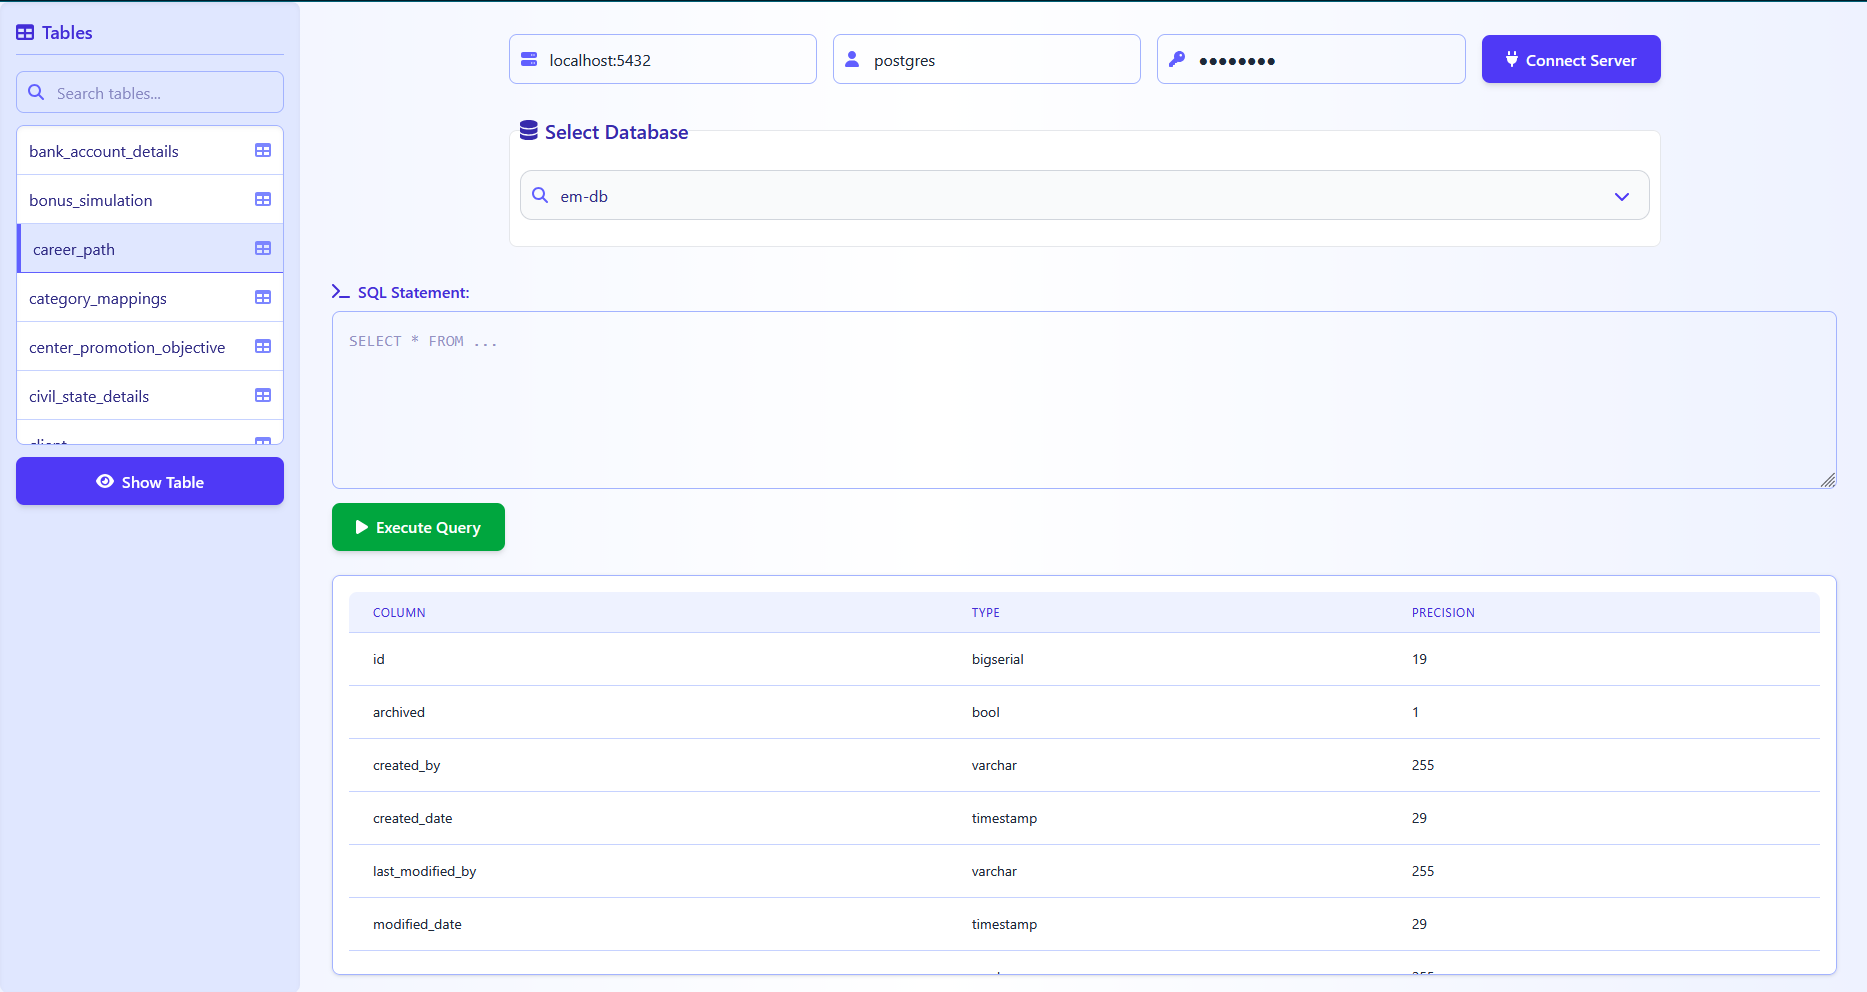
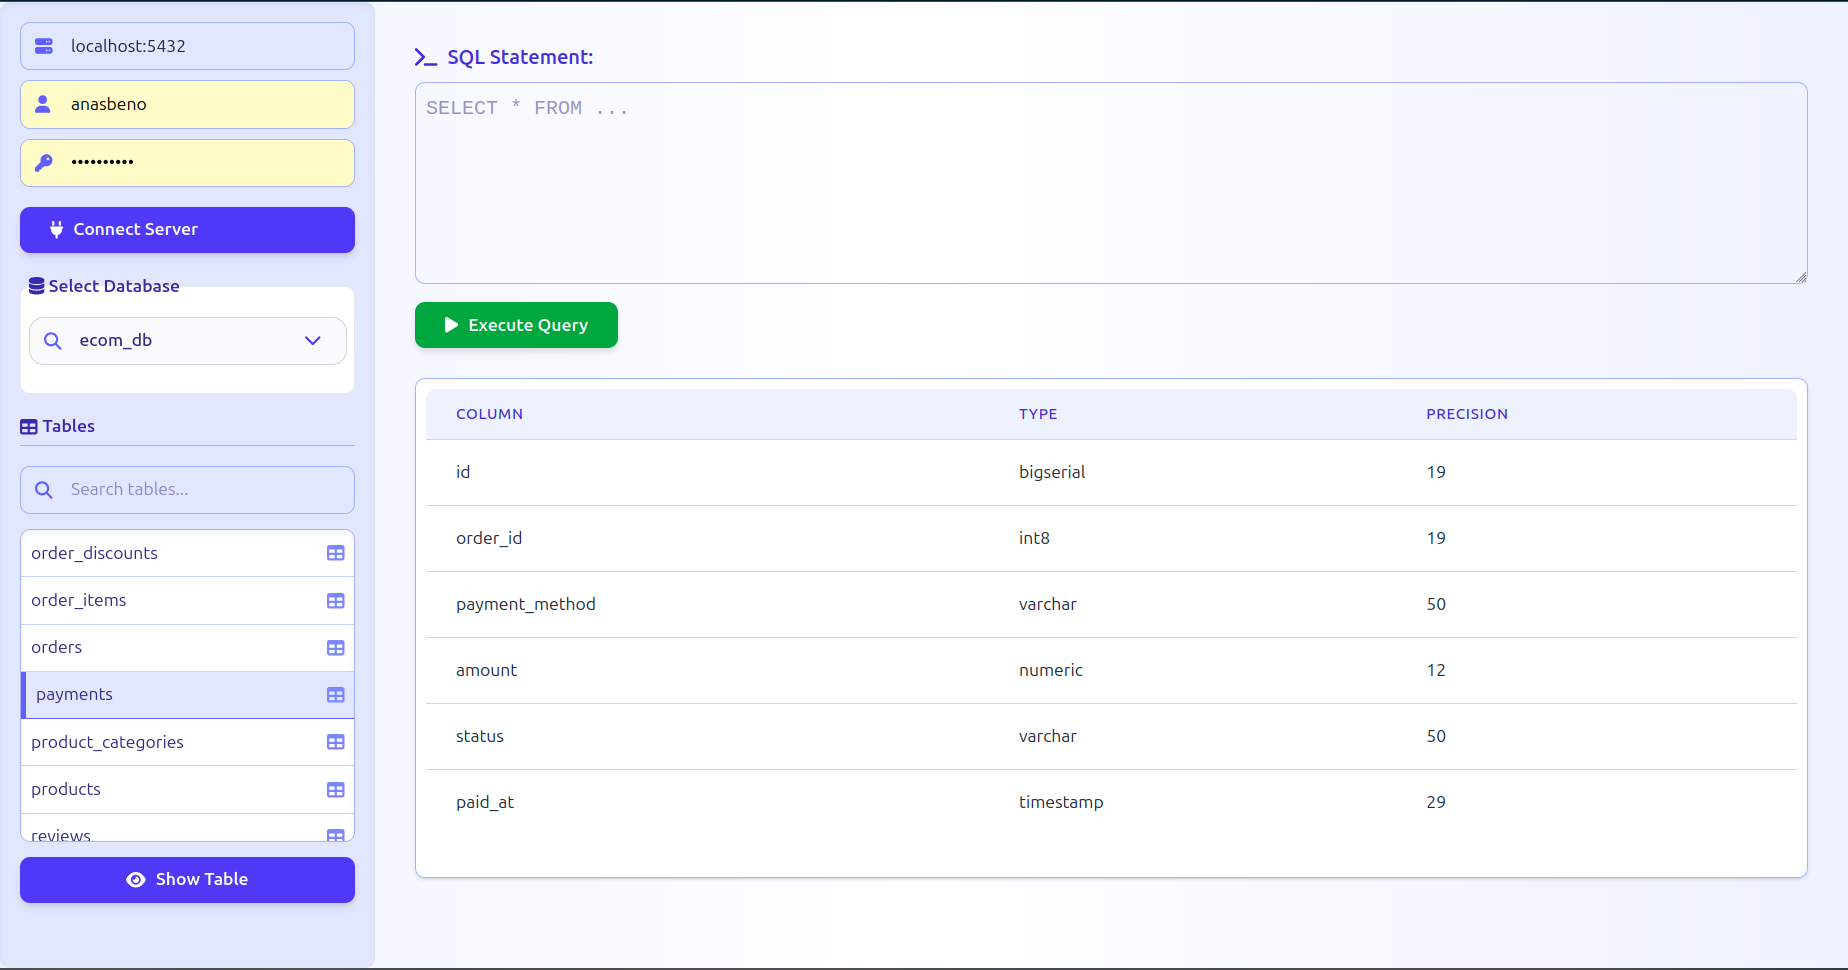
ui-changes - Moved server and db connetion to sidebar

diff --git a/src/main/resources/templates/index.html b/src/main/resources/templates/index.html
@@ -13,19 +13,31 @@
             <!-- Main Content -->
             <div class="ml-[300px]">
 
+                  <div class="flex flex-col md:flex-row gap-8">
+                        <!-- Execute Query Section -->
+                        <div th:replace="~{/fragments/execute :: execute}"></div>
+                  </div>
+            </div>
+
+            <!-- Sidebar (Table List) -->
+            <div
+                  class="md:w-1/4 bg-indigo-100 rounded-lg p-4 shadow-inner overflow-auto min-h-[100vh] max-w-[300px] fixed top-0 left-0">
+
                   <!-- Server connection form -->
                   <fieldset>
                         <form hx-post="/connectServer" hx-target="#database-select" hx-swap="innerHTML"
-                              class="flex flex-col md:flex-row gap-4 mb-8 max-w-6xl mx-auto">
-                              <div class="flex flex-col md:flex-row gap-4 md:items-center md:justify-between w-full">
+                              class="flex flex-col md:flex-col gap-4 mb-4 max-w-6xl mx-auto">
+                              <div
+                                    class="flex flex-col md:flex-col gap-4 md:items-center md:justify-between w-full text-[14px] ">
 
-                                    <div class="flex flex-col md:flex-row gap-4 flex-1 w-full">
+                                    <!-- Server, Username, Password -->
+                                    <div class="flex flex-col md:flex-col gap-2 flex-1 w-full">
                                           <div class="flex-1 md:w-full relative">
                                                 <i
                                                       class="fas fa-server absolute left-3 top-1/2 transform -translate-y-1/2 text-indigo-500"></i>
                                                 <input type="text" name="server" placeholder="Server"
                                                       th:value="${server}"
-                                                      class="w-full pl-10 pr-4 py-3 border border-indigo-300 rounded-lg focus:outline-none focus:ring-2 focus:ring-indigo-500 transition"
+                                                      class="w-full pl-10 pr-4 py-2 border border-indigo-300 rounded-lg focus:outline-none focus:ring-2 focus:ring-indigo-500 transition"
                                                       required />
                                           </div>
 
@@ -33,7 +45,7 @@
                                                 <i
                                                       class="fas fa-user absolute left-3 top-1/2 transform -translate-y-1/2 text-indigo-500"></i>
                                                 <input type="text" name="username" placeholder="Username"
-                                                      class="w-full pl-10 pr-4 py-3 border border-indigo-300 rounded-lg focus:outline-none focus:ring-2 focus:ring-indigo-500 transition"
+                                                      class="w-full pl-10 pr-4 py-2 border border-indigo-300 rounded-lg focus:outline-none focus:ring-2 focus:ring-indigo-500 transition"
                                                       th:value="${username}" required />
                                           </div>
 
@@ -41,13 +53,14 @@
                                                 <i
                                                       class="fas fa-key absolute left-3 top-1/2 transform -translate-y-1/2 text-indigo-500"></i>
                                                 <input type="password" name="password" placeholder="Password"
-                                                      class="w-full pl-10 pr-4 py-3 border border-indigo-300 rounded-lg focus:outline-none focus:ring-2 focus:ring-indigo-500 transition"
+                                                      class="w-full pl-10 pr-4 py-2 border border-indigo-300 rounded-lg focus:outline-none focus:ring-2 focus:ring-indigo-500 transition"
                                                       th:value="${password}" required />
                                           </div>
                                     </div>
 
+                                    <!-- Connect Button -->
                                     <button type="submit"
-                                          class="w-full md:w-auto bg-indigo-600 hover:bg-indigo-700 text-white font-semibold px-6 py-3 rounded-lg shadow-md transition duration-300 flex items-center gap-2 disabled:opacity-50 disabled:cursor-not-allowed md:ml-auto">
+                                          class="w-full md:w-full bg-indigo-600 hover:bg-indigo-700 text-white font-semibold px-6 py-2 rounded-lg shadow-md transition duration-300 flex items-center gap-2 disabled:opacity-50 disabled:cursor-not-allowed md:ml-auto">
                                           <i class="fas fa-plug"></i>
                                           Connect Server
                                     </button>
@@ -58,26 +71,11 @@
                   </fieldset>
 
                   <!-- Database Selection -->
-                  <div id="database-select" class="mb-8 max-w-6xl mx-auto">
+                  <div id="database-select" class="mb-4 max-w-6xl mx-auto">
                         <!-- Database Selection content here -->
                   </div>
 
-                  <div class="flex flex-col md:flex-row gap-8">
 
-
-                        <!-- Execute Query Section -->
-                        <div th:replace="~{/fragments/execute :: execute}"></div>
-                  </div>
-            </div>
-
-            <!-- Sidebar (Table List) -->
-            <div
-                  class="md:w-1/4 bg-indigo-100 rounded-lg p-4 shadow-inner overflow-auto min-h-[100vh] max-w-[300px] fixed top-0 left-0">
-                  <h2
-                        class="text-lg font-semibold text-indigo-700 mb-4 border-b border-indigo-300 pb-2 flex items-center gap-2">
-                        <i class="fas fa-table"></i>
-                        Tables
-                  </h2>
                   <div id="table-list" class="space-y-2 text-indigo-900"></div>
             </div>
       </div>

diff --git a/src/main/resources/static/css/output.css b/src/main/resources/static/css/output.css
@@ -38,10 +38,6 @@
     --text-xs--line-height: calc(1 / 0.75);
     --text-sm: 0.875rem;
     --text-sm--line-height: calc(1.25 / 0.875);
-    --text-lg: 1.125rem;
-    --text-lg--line-height: calc(1.75 / 1.125);
-    --text-xl: 1.25rem;
-    --text-xl--line-height: calc(1.75 / 1.25);
     --text-4xl: 2.25rem;
     --text-4xl--line-height: calc(2.5 / 2.25);
     --font-weight-medium: 500;
@@ -214,9 +210,6 @@
   .static {
     position: static;
   }
-  .sticky {
-    position: sticky;
-  }
   .top-0 {
     top: calc(var(--spacing) * 0);
   }
@@ -268,9 +261,6 @@
   .mb-6 {
     margin-bottom: calc(var(--spacing) * 6);
   }
-  .mb-8 {
-    margin-bottom: calc(var(--spacing) * 8);
-  }
   .ml-2 {
     margin-left: calc(var(--spacing) * 2);
   }
@@ -304,14 +294,8 @@
   .max-h-80 {
     max-height: calc(var(--spacing) * 80);
   }
-  .max-h-\[100vh\] {
-    max-height: 100vh;
-  }
-  .max-h-\[400px\] {
-    max-height: 400px;
-  }
-  .max-h-\[550px\] {
-    max-height: 550px;
+  .max-h-\[250px\] {
+    max-height: 250px;
   }
   .min-h-\[100vh\] {
     min-height: 100vh;
@@ -380,6 +364,9 @@
   .justify-center {
     justify-content: center;
   }
+  .gap-1 {
+    gap: calc(var(--spacing) * 1);
+  }
   .gap-2 {
     gap: calc(var(--spacing) * 2);
   }
@@ -425,6 +412,9 @@
   }
   .overflow-y-auto {
     overflow-y: auto;
+  }
+  .overflow-y-scroll {
+    overflow-y: scroll;
   }
   .rounded-full {
     border-radius: calc(infinity * 1px);
@@ -516,20 +506,17 @@
     --tw-gradient-to: var(--color-indigo-50);
     --tw-gradient-stops: var(--tw-gradient-via-stops, var(--tw-gradient-position), var(--tw-gradient-from) var(--tw-gradient-from-position), var(--tw-gradient-to) var(--tw-gradient-to-position));
   }
+  .p-1 {
+    padding: calc(var(--spacing) * 1);
+  }
+  .p-1\.5 {
+    padding: calc(var(--spacing) * 1.5);
+  }
   .p-2 {
     padding: calc(var(--spacing) * 2);
   }
-  .p-2\.5 {
-    padding: calc(var(--spacing) * 2.5);
-  }
-  .p-3 {
-    padding: calc(var(--spacing) * 3);
-  }
   .p-4 {
     padding: calc(var(--spacing) * 4);
-  }
-  .p-6 {
-    padding: calc(var(--spacing) * 6);
   }
   .p-8 {
     padding: calc(var(--spacing) * 8);
@@ -555,8 +542,8 @@
   .pr-12 {
     padding-right: calc(var(--spacing) * 12);
   }
-  .pb-2 {
-    padding-bottom: calc(var(--spacing) * 2);
+  .pb-1 {
+    padding-bottom: calc(var(--spacing) * 1);
   }
   .pl-10 {
     padding-left: calc(var(--spacing) * 10);
@@ -574,21 +561,16 @@
     font-size: var(--text-4xl);
     line-height: var(--tw-leading, var(--text-4xl--line-height));
   }
-  .text-lg {
-    font-size: var(--text-lg);
-    line-height: var(--tw-leading, var(--text-lg--line-height));
-  }
   .text-sm {
     font-size: var(--text-sm);
     line-height: var(--tw-leading, var(--text-sm--line-height));
   }
-  .text-xl {
-    font-size: var(--text-xl);
-    line-height: var(--tw-leading, var(--text-xl--line-height));
-  }
   .text-xs {
     font-size: var(--text-xs);
     line-height: var(--tw-leading, var(--text-xs--line-height));
+  }
+  .text-\[14px\] {
+    font-size: 14px;
   }
   .font-bold {
     --tw-font-weight: var(--font-weight-bold);
@@ -807,19 +789,14 @@
       width: calc(1/4 * 100%);
     }
   }
-  .md\:w-3\/4 {
-    @media (width >= 48rem) {
-      width: calc(3/4 * 100%);
-    }
-  }
-  .md\:w-auto {
-    @media (width >= 48rem) {
-      width: auto;
-    }
-  }
   .md\:w-full {
     @media (width >= 48rem) {
       width: 100%;
+    }
+  }
+  .md\:flex-col {
+    @media (width >= 48rem) {
+      flex-direction: column;
     }
   }
   .md\:flex-row {

diff --git a/src/main/resources/templates/fragments/database-select.html b/src/main/resources/templates/fragments/database-select.html
@@ -1,20 +1,20 @@
 <!-- fragments/database-select.html -->
 <div th:fragment="databaseSelect">
-      <fieldset th:if="${error} == null" class="bg-white p-2.5 rounded-lg border border-gray-200">
-            <legend class="text-xl font-semibold text-indigo-800 mb-4 flex items-center gap-2">
+      <fieldset th:if="${error} == null" class="bg-white p-1.5 rounded-lg border border-gray-200">
+            <legend class="text-[14px] font-semibold text-indigo-800 mb-2 flex items-center gap-1">
                   <i class="fas fa-database"></i>
                   Select Database
             </legend>
 
             <!-- Search + Dropdown -->
-            <div class="flex flex-col gap-4">
+            <div class="flex flex-col gap-4 text-[14px]">
 
                   <!-- Search + Dropdown Box -->
                   <div class="flex-1 relative">
                         <div class="relative">
                               <i class="fas fa-search absolute left-3 top-1/2 -translate-y-1/2 text-indigo-500"></i>
                               <input type="text" id="dbSearch" placeholder="Search for a database..."
-                                    class="w-full border border-gray-300 rounded-xl pl-10 pr-12 py-3 bg-gray-50 font-medium text-indigo-900 focus:outline-none focus:border-gray-300 focus:border-t-2 focus:border-l-2 focus:border-r-2 focus:border-b-0 focus:rounded-b-none transition" />
+                                    class="w-full border border-gray-300 rounded-xl pl-10 pr-12 py-2 bg-gray-50 font-medium text-indigo-900 focus:outline-none focus:border-gray-300 focus:border-t-2 focus:border-l-2 focus:border-r-2 focus:border-b-0 focus:rounded-b-none transition" />
 
                               <!-- Arrow -->
                               <button id="dbArrow" type="button"
@@ -27,7 +27,7 @@
                         <div class="overflow-y-auto max-h-72 border-b-2 border-l-2 border-r-2 border-gray-300 rounded-b-xl bg-white hidden absolute w-full shadow-md z-10"
                               id="dbOptions">
                               <div th:each="db : ${databases}" th:data-value="${db}"
-                                    class="db-option pl-10 pr-12 py-3 border-gray-300 hover:bg-indigo-50 cursor-pointer transition-colors flex items-center justify-between">
+                                    class="db-option pl-10 pr-12 py-2 border-gray-300 hover:bg-indigo-50 cursor-pointer transition-colors flex items-center justify-between">
                                     <span th:text="${db}" class="font-medium text-gray-700"></span>
                                     <i class="fas fa-database text-indigo-400 ml-2"></i>
                               </div>

diff --git a/src/main/resources/templates/fragments/table-list.html b/src/main/resources/templates/fragments/table-list.html
@@ -1,5 +1,10 @@
 <!-- fragments/table-list.html -->
-<div th:fragment="tableList" class="space-y-3">
+<div th:fragment="tableList" class="space-y-3 text-[14px]">
+      <h2
+            class="text-[14px] font-semibold text-indigo-800 mb-4 border-b border-indigo-300 pb-1 flex items-center gap-1">
+            <i class="fas fa-table"></i>
+            Tables
+      </h2>
       <!-- Search input for filtering tables -->
       <div class="relative">
             <i class="fas fa-search absolute left-3 top-1/2 transform -translate-y-1/2 text-indigo-500"></i>
@@ -11,11 +16,11 @@
             <input type="hidden" name="tableName" id="selectedTable">
 
 
-            <div class="overflow-y-auto max-h-80 border border-indigo-300 rounded-lg bg-white shadow-inner">
+            <div class="overflow-y-auto max-h-[250px] border border-indigo-300 rounded-lg bg-white shadow-inner">
                   <div id="tableOptions" class="divide-y divide-indigo-200">
 
                         <div th:each="table : ${tables}"
-                              class="table-option p-3 hover:bg-indigo-50 cursor-pointer transition-colors flex items-center justify-between"
+                              class="table-option p-2 hover:bg-indigo-50 cursor-pointer transition-colors flex items-center justify-between mx-h-[250px]"
                               th:data-value="${table}">
                               <span th:text="${table}"></span>
                               <i class="fas fa-table text-indigo-400 ml-2"></i>
@@ -24,7 +29,7 @@
             </div>
 
             <button type="submit"
-                  class="w-full bg-indigo-600 hover:bg-indigo-700 text-white font-semibold px-4 py-3 rounded-lg shadow-md transition duration-300 flex items-center justify-center gap-2 mt-3 disabled:opacity-50 disabled:cursor-not-allowed"
+                  class="w-full bg-indigo-600 hover:bg-indigo-700 text-white font-semibold px-4 py-2 rounded-lg shadow-md transition duration-300 flex items-center justify-center gap-2 mt-3 disabled:opacity-50 disabled:cursor-not-allowed"
                   id="showTableBtn" disabled>
                   <i class="fas fa-eye"></i>
                   Show Table

diff --git a/src/main/resources/templates/fragments/execute.html b/src/main/resources/templates/fragments/execute.html
@@ -6,16 +6,16 @@
                   SQL Statement:
             </label>
             <textarea name="sql" rows="6"
-                  class="w-full p-4 border border-indigo-300 rounded-lg font-mono text-indigo-900 focus:outline-none focus:ring-2 focus:ring-indigo-500 transition resize-y"
+                  class="w-full p-2 border border-indigo-300 rounded-lg font-mono text-indigo-900 focus:outline-none focus:ring-2 focus:ring-indigo-500 transition resize-y"
                   placeholder="SELECT * FROM ..."></textarea>
             <button type="submit"
-                  class="mt-3 bg-green-600 hover:bg-green-700 text-white font-semibold px-6 py-3 rounded-lg shadow-md transition duration-300 flex items-center gap-2 disabled:opacity-50 disabled:cursor-not-allowed">
+                  class="text-[14px] mt-3 bg-green-600 hover:bg-green-700 text-white font-semibold px-6 py-2 rounded-lg shadow-md transition duration-300 flex items-center gap-2 disabled:opacity-50 disabled:cursor-not-allowed">
                   <i class="fas fa-play"></i>
                   Execute Query
             </button>
       </form>
 
-      <div id="result-table" class="overflow-auto rounded-lg border border-indigo-300 shadow-sm p-4 bg-white h-[400px]">
+      <div id="result-table" class="overflow-auto rounded-lg border border-indigo-300 shadow-sm p-2 bg-white h-[400px]">
             <div class="flex flex-col items-center justify-center h-full text-gray-400">
                   <i class="fas fa-database text-4xl mb-2"></i>
                   <p>Results will appear here</p>
